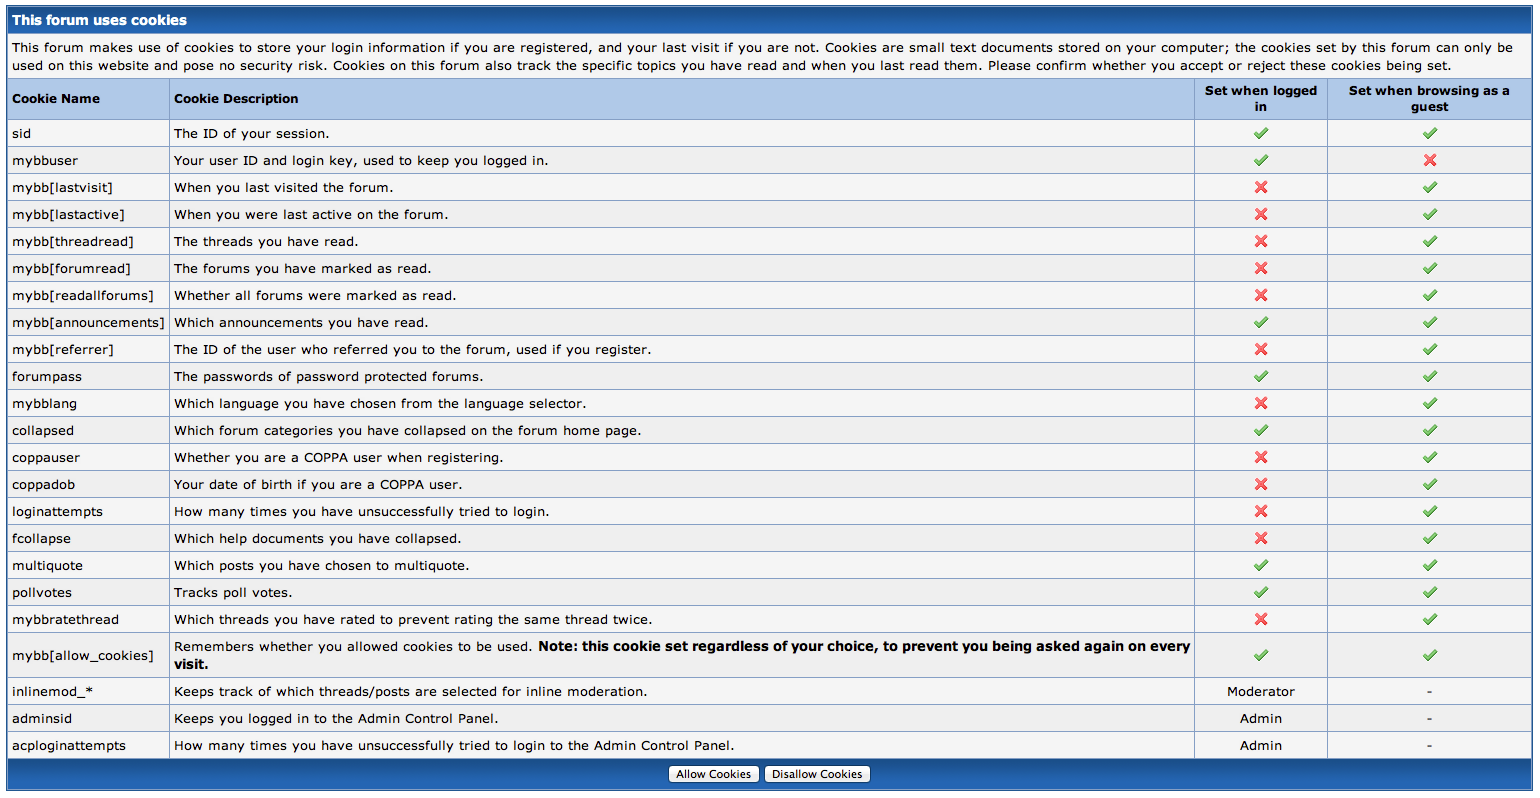
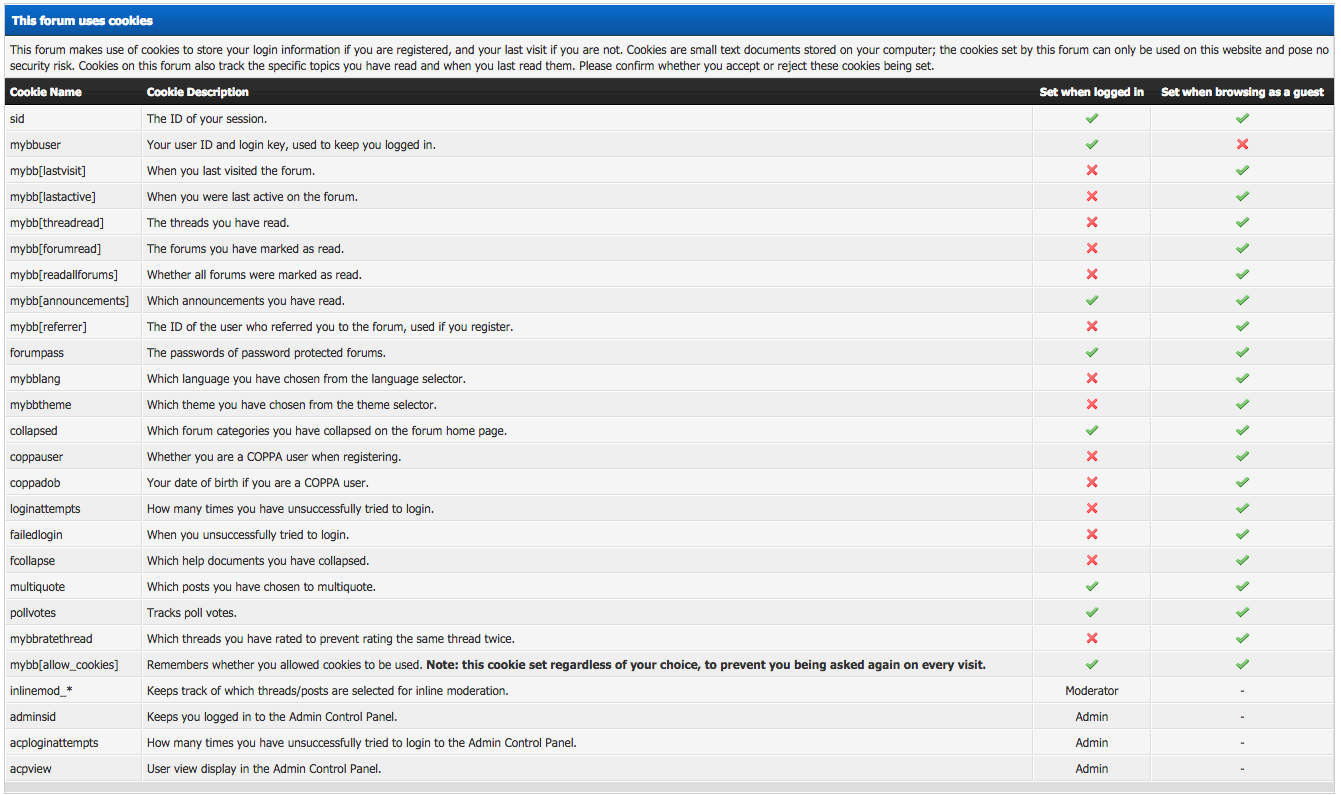
MyBB 1.8 compatible, permissions bug, display method setting

diff --git a/files/inc/plugins/cookielaw.php b/files/inc/plugins/cookielaw.php
@@ -1,8 +1,8 @@
 <?php
 /**
- * Cookie Law 0.1
+ * Cookie Law 1.0
 
- * Copyright 2011 Matthew Rogowski
+ * Copyright 2014 Matthew Rogowski
 
  * Licensed under the Apache License, Version 2.0 (the "License");
  * you may not use this file except in compliance with the License.
@@ -22,7 +22,8 @@ if(!defined("IN_MYBB"))
 	die("Direct initialization of this file is not allowed.<br /><br />Please make sure IN_MYBB is defined.");
 }
 
-$plugins->add_hook('global_start', 'cookielaw_global_start');
+$plugins->add_hook('global_start', 'cookielaw_global_intermediate');
+$plugins->add_hook('global_intermediate', 'cookielaw_global_intermediate');
 $plugins->add_hook('global_end', 'cookielaw_global_end');
 $plugins->add_hook('misc_start', 'cookielaw_misc');
 $plugins->add_hook('admin_load', 'cookielaw_clear_cookies');
@@ -32,11 +33,11 @@ function cookielaw_info()
 	return array(
 		"name" => "Cookie Law",
 		"description" => "Give information and gain consent for cookies to be set by the forum.",
-		"website" => "http://mattrogowski.co.uk/mybb/",
-		"author" => "MattRogowski",
-		"authorsite" => "http://mattrogowski.co.uk/mybb/",
-		"version" => "0.1",
-		"compatibility" => "16*",
+		"website" => "https://github.com/MattRogowski/Cookie-Law",
+		"author" => "Matt Rogowski",
+		"authorsite" => "http://mattrogowski.co.uk",
+		"version" => "1.0",
+		"compatibility" => "16*,18*",
 		"guid" => "8feb3d39042f9ff5b76561fbb42019b2"
 	);
 }
@@ -49,8 +50,46 @@ function cookielaw_activate()
 	
 	require_once MYBB_ROOT . 'inc/adminfunctions_templates.php';
 	
+	$settings_group = array(
+		"name" => "cookielaw",
+		"title" => "Cookie Law Settings",
+		"description" => "Settings for the cookie law plugin.",
+		"disporder" => "28",
+		"isdefault" => 0
+	);
+	$db->insert_query("settinggroups", $settings_group);
+	$gid = $db->insert_id();
+	
+	$settings = array();
+	$settings[] = array(
+		"name" => "cookielaw_method",
+		"title" => "Display Method",
+		"description" => "How do you want the message to function?<br /><strong>Notify:</strong> A message will be displayed notifying users that cookies are used, but no method of opting out.<br /><strong>Opt In/Out:</strong> Give people a choice on whether they want to accept the use of cookies or not.",
+		"optionscode" => "radio
+notify=Notify
+opt=Opt In/Out",
+		"value" => "notify"
+	);
+	$i = 1;
+	foreach($settings as $setting)
+	{
+		$insert = array(
+			"name" => $setting['name'],
+			"title" => $setting['title'],
+			"description" => $setting['description'],
+			"optionscode" => $setting['optionscode'],
+			"value" => $setting['value'],
+			"disporder" => $i,
+			"gid" => intval($gid),
+		);
+		$db->insert_query("settings", $insert);
+		$i++;
+	}
+	
+	rebuild_settings();
+	
 	find_replace_templatesets("header", "#".preg_quote('<div id="container">')."#i", '{$cookielaw}<div id="container">');
-	find_replace_templatesets("footer", "#".preg_quote('{$lang->bottomlinks_syndication}</a>')."#i", '{$lang->bottomlinks_syndication}</a> | <a href="{$mybb->settings[\'bburl\']}/misc.php?action=cookielaw_info">{$lang->cookielaw_footer}</a>');
+	find_replace_templatesets("footer", "#".preg_quote('{$lang->bottomlinks_syndication}</a></li>')."#i", '{$lang->bottomlinks_syndication}</a></li>'."\n\t\t\t\t".'<li><a href="{$mybb->settings[\'bburl\']}/misc.php?action=cookielaw_info">{$lang->cookielaw_footer}</a></li>');
 	
 	$templates = array();
 	$templates[] = array(
@@ -60,11 +99,11 @@ function cookielaw_activate()
 <title>{\$lang->cookielaw_info_title}</title>
 {\$headerinclude}
 <script type=\"text/javascript\">
-document.observe(\"dom:loaded\", function() {
-	\$('cookielaw_disallow_bottom').observe('click', function(Event) {
+jQuery(document).ready(function() {
+	jQuery('.cookielaw_disallow').click(function() {
 		if(!confirm('{\$lang->cookielaw_disallow_confirm}'))
 		{
-			Event.stop();
+			return false;
 		}
 	});
 });
@@ -88,7 +127,7 @@ document.observe(\"dom:loaded\", function() {
 		</tr>
 		{\$cookies_rows}
 		<tr>		
-			<td class=\"tfoot\" colspan=\"4\"><div style=\"text-align: center;\"><input type=\"submit\" name=\"allow\" value=\"{\$lang->cookielaw_allow}\" /><input type=\"submit\" name=\"disallow\" id=\"cookielaw_disallow_bottom\" value=\"{\$lang->cookielaw_disallow}\" /><input type=\"hidden\" name=\"my_post_key\" value=\"{\$mybb->post_code}\" /></div></td>
+			<td class=\"tfoot\" colspan=\"4\"><div style=\"text-align: center;\">{\$buttons}</div></td>
 		</tr>
 	</table>
 </form>
@@ -99,18 +138,18 @@ document.observe(\"dom:loaded\", function() {
 	$templates[] = array(
 		"title" => "cookielaw_header",
 		"template" => "<script type=\"text/javascript\">
-document.observe(\"dom:loaded\", function() {
-	\$('cookielaw_disallow_top').observe('click', function(Event) {
+jQuery(document).ready(function() {
+	jQuery('.cookielaw_disallow').unbind('click').click(function() {
 		if(!confirm('{\$lang->cookielaw_disallow_confirm}'))
 		{
-			Event.stop();
+			return false;
 		}
 	});
 });
 </script>
 <div id=\"cookies\" style=\"width: 100%; text-align: left; margin-bottom: 10px;\">
 	<form action=\"{\$mybb->settings['bburl']}/misc.php?action=cookielaw_change\" method=\"post\">
-		<table border=\"0\" cellspacing=\"1\" cellpadding=\"4\" class=\"tborder\">
+		<table border=\"0\" cellspacing=\"{\$theme['borderwidth']}\" cellpadding=\"{\$theme['tablespace']}\" class=\"tborder\">
 			<tr>		
 				<td class=\"thead\"><strong>{\$lang->cookielaw_header}</strong></td>
 			</tr>
@@ -118,11 +157,23 @@ document.observe(\"dom:loaded\", function() {
 				<td class=\"trow1\">{\$lang->cookielaw_description}<br /><br />{\$lang->cookielaw_description_setcookie}</td>
 			</tr>
 			<tr>		
-				<td class=\"tfoot\"><div class=\"float_right\"><input type=\"submit\" name=\"allow\" value=\"{\$lang->cookielaw_allow}\" /><input type=\"submit\" name=\"disallow\" id=\"cookielaw_disallow_top\" value=\"{\$lang->cookielaw_disallow}\" /><input type=\"submit\" name=\"more_info\" value=\"{\$lang->cookielaw_more_info}\" /><input type=\"hidden\" name=\"my_post_key\" value=\"{\$mybb->post_code}\" /></div></td>
+				<td class=\"tfoot\"><div class=\"float_right\">{\$buttons}</div></td>
 			</tr>
 		</table>
 	</form>
 </div>"
+	);
+	$templates[] = array(
+		"title" => "cookielaw_buttons_notify",
+		"template" => "<input type=\"submit\" name=\"okay\" value=\"{\$lang->cookielaw_ok}\" />{\$more_info}<input type=\"hidden\" name=\"my_post_key\" value=\"{\$mybb->post_code}\" />"
+	);
+	$templates[] = array(
+		"title" => "cookielaw_buttons_opt",
+		"template" => "<input type=\"submit\" name=\"allow\" value=\"{\$lang->cookielaw_allow}\" /> <input type=\"submit\" name=\"disallow\" class=\"cookielaw_disallow\" value=\"{\$lang->cookielaw_disallow}\" />{\$more_info}<input type=\"hidden\" name=\"my_post_key\" value=\"{\$mybb->post_code}\" />"
+	);
+	$templates[] = array(
+		"title" => "cookielaw_button_more_info",
+		"template" => "<input type=\"submit\" name=\"more_info\" value=\"{\$lang->cookielaw_more_info}\" />"
 	);
 	$templates[] = array(
 		"title" => "cookielaw_header_no_cookies",
@@ -152,20 +203,32 @@ function cookielaw_deactivate()
 	
 	require_once MYBB_ROOT . 'inc/adminfunctions_templates.php';
 	
-	find_replace_templatesets("header", "#".preg_quote('{$cookielaw}')."#i", '', 0);
-	find_replace_templatesets("footer", "#".preg_quote(' | <a href="{$mybb->settings[\'bburl\']}/misc.php?action=cookielaw_info">{$lang->cookielaw_footer}</a>')."#i", '', 0);
+	$db->delete_query("settinggroups", "name = 'cookielaw'");
 	
-	$db->delete_query("templates", "title IN ('cookielaw_info','cookielaw_header','cookielaw_header_no_cookies')");
+	$settings = array(
+		"cookielaw_method"
+	);
+	$settings = "'" . implode("','", $settings) . "'";
+	$db->delete_query("settings", "name IN ({$settings})");
+	
+	rebuild_settings();
+	
+	find_replace_templatesets("header", "#".preg_quote('{$cookielaw}')."#i", '', 0);
+	find_replace_templatesets("footer", "#".preg_quote("\n\t\t\t\t".'<li><a href="{$mybb->settings[\'bburl\']}/misc.php?action=cookielaw_info">{$lang->cookielaw_footer}</a></li>')."#i", '', 0);
+	
+	$db->delete_query("templates", "title IN ('cookielaw_info','cookielaw_header','cookielaw_buttons_notify','cookielaw_buttons_opt','cookielaw_button_more_info','cookielaw_header_no_cookies')");
 }
 
-function cookielaw_global_start()
+function cookielaw_global_intermediate()
 {
-	global $mybb, $lang, $templates, $cookielaw;
+	global $mybb, $lang, $templates, $theme, $cookielaw;
 	
 	$lang->load('cookielaw');
-	
+
 	if(!isset($mybb->cookies['mybb']['allow_cookies']))
 	{
+		eval("\$more_info = \"".$templates->get("cookielaw_button_more_info")."\";");
+		eval("\$buttons = \"".$templates->get("cookielaw_buttons_".$mybb->settings['cookielaw_method'])."\";");
 		eval("\$cookielaw = \"".$templates->get("cookielaw_header")."\";");
 	}
 	elseif(isset($mybb->cookies['mybb']['allow_cookies']) && $mybb->cookies['mybb']['allow_cookies'] == '0')
@@ -206,6 +269,11 @@ function cookielaw_misc()
 			else
 			{
 				my_setcookie('mybb[allow_cookies]', '1');
+
+				if($mybb->input['okay'])
+				{
+					$lang->cookielaw_redirect = '';
+				}
 			}
 			redirect('index.php', $lang->cookielaw_redirect);
 		}
@@ -267,6 +335,10 @@ function cookielaw_misc()
 			}
 		}
 		
+		if($mybb->settings['cookielaw_method'] == 'opt')
+		{
+			eval("\$buttons = \"".$templates->get("cookielaw_buttons_".$mybb->settings['cookielaw_method'])."\";");
+		}
 		eval("\$cookielaw_info = \"".$templates->get("cookielaw_info")."\";");
 		output_page($cookielaw_info);
 	}
@@ -349,6 +421,10 @@ function cookielaw_get_cookies($all = false)
 			'member' => false,
 			'guest' => true
 		),
+		'mybbtheme' => array(
+			'member' => false,
+			'guest' => true
+		),
 		'collapsed' => array(
 			'member' => true,
 			'guest' => true
@@ -362,6 +438,10 @@ function cookielaw_get_cookies($all = false)
 			'guest' => true
 		),
 		'loginattempts' => array(
+			'member' => false,
+			'guest' => true
+		),
+		'failedlogin' => array(
 			'member' => false,
 			'guest' => true
 		),
@@ -400,6 +480,9 @@ function cookielaw_get_cookies($all = false)
 			'admin' => true
 		);
 		$cookies['acploginattempts'] = array(
+			'admin' => true
+		);
+		$cookies['acpview'] = array(
 			'admin' => true
 		);
 	}

diff --git a/files/inc/languages/english/cookielaw.lang.php b/files/inc/languages/english/cookielaw.lang.php
@@ -1,8 +1,8 @@
 <?php
 /**
- * Cookie Law 0.1 - Language File
+ * Cookie Law 1.0 - Language File
 
- * Copyright 2012 Matthew Rogowski
+ * Copyright 2014 Matthew Rogowski
 
  * Licensed under the Apache License, Version 2.0 (the "License");
  * you may not use this file except in compliance with the License.
@@ -23,6 +23,7 @@ $l['cookielaw_description_setcookie'] = 'A cookie will be stored in your browser
 $l['cookielaw_description_no_cookies'] = 'You have blocked the use of cookies on this site. Some site functionality will fail to work. <a href="{1}/misc.php?action=cookielaw_info">Change this/More information</a>.';
 $l['cookielaw_allow'] = 'Allow Cookies';
 $l['cookielaw_disallow'] = 'Disallow Cookies';
+$l['cookielaw_ok'] = 'Okay';
 $l['cookielaw_disallow_confirm'] = "Are you sure you want to disallow cookies?'+'\\r\\n\\r\\n'+'It will mean you will be unable to log in to the forum, and will restrict functionality when browsing as a guest.";
 $l['cookielaw_more_info'] = 'More Information';
 $l['cookielaw_info_title'] = 'Cookie Consent';
@@ -39,9 +40,11 @@ $l['cookielaw_cookie_forumpass_desc'] = 'The passwords of password protected for
 $l['cookielaw_cookie_collapsed_desc'] = 'Which forum categories you have collapsed on the forum home page.';
 $l['cookielaw_cookie_multiquote_desc'] = 'Which posts you have chosen to multiquote.';
 $l['cookielaw_cookie_mybblang_desc'] = 'Which language you have chosen from the language selector.';
+$l['cookielaw_cookie_mybbtheme_desc'] = 'Which theme you have chosen from the theme selector.';
 $l['cookielaw_cookie_coppauser_desc'] = 'Whether you are a COPPA user when registering.';
 $l['cookielaw_cookie_coppadob_desc'] = 'Your date of birth if you are a COPPA user.';
 $l['cookielaw_cookie_loginattempts_desc'] = 'How many times you have unsuccessfully tried to login.';
+$l['cookielaw_cookie_failedlogin_desc'] = 'When you unsuccessfully tried to login.';
 $l['cookielaw_cookie_mybbratethread_desc'] = 'Which threads you have rated to prevent rating the same thread twice.';
 $l['cookielaw_cookie_mybb[lastvisit]_desc'] = 'When you last visited the forum.';
 $l['cookielaw_cookie_mybb[lastactive]_desc'] = 'When you were last active on the forum.';
@@ -56,6 +59,7 @@ $l['cookielaw_cookie_mybb[allow_cookies]_desc'] = 'Remembers whether you allowed
 $l['cookielaw_cookie_inlinemod_*_desc'] = 'Keeps track of which threads/posts are selected for inline moderation.';
 $l['cookielaw_cookie_adminsid_desc'] = 'Keeps you logged in to the Admin Control Panel.';
 $l['cookielaw_cookie_acploginattempts_desc'] = 'How many times you have unsuccessfully tried to login to the Admin Control Panel.';
+$l['cookielaw_cookie_acpview_desc'] = 'User view display in the Admin Control Panel.';
 $l['cookielaw_redirect'] = 'You cookie preferences have been updated.<br /><br />You can change them at any time by using the link in the footer.';
 $l['cookielaw_footer'] = 'Cookie Consent Settings';
 ?>
